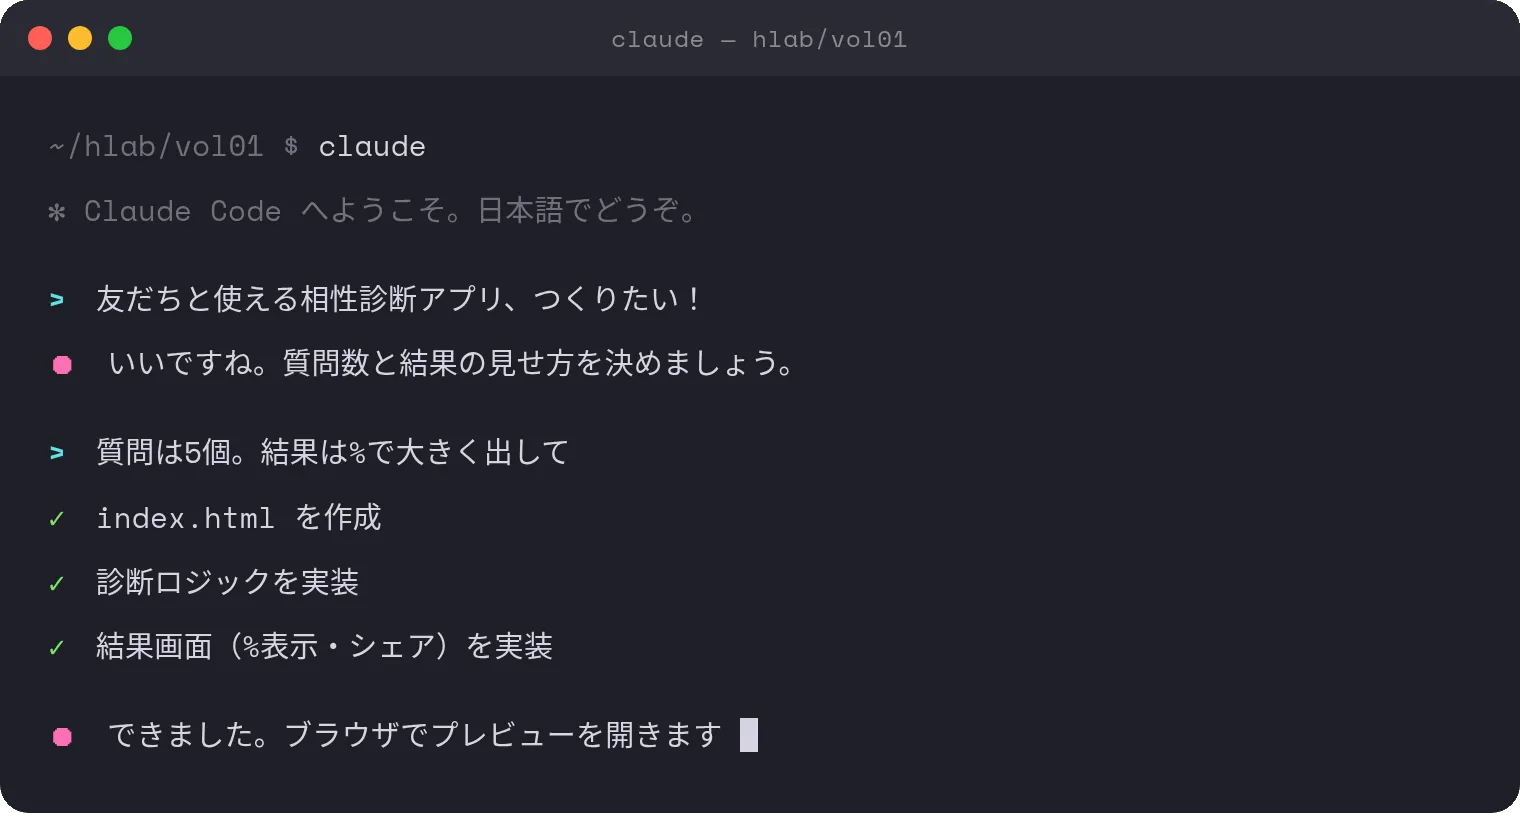
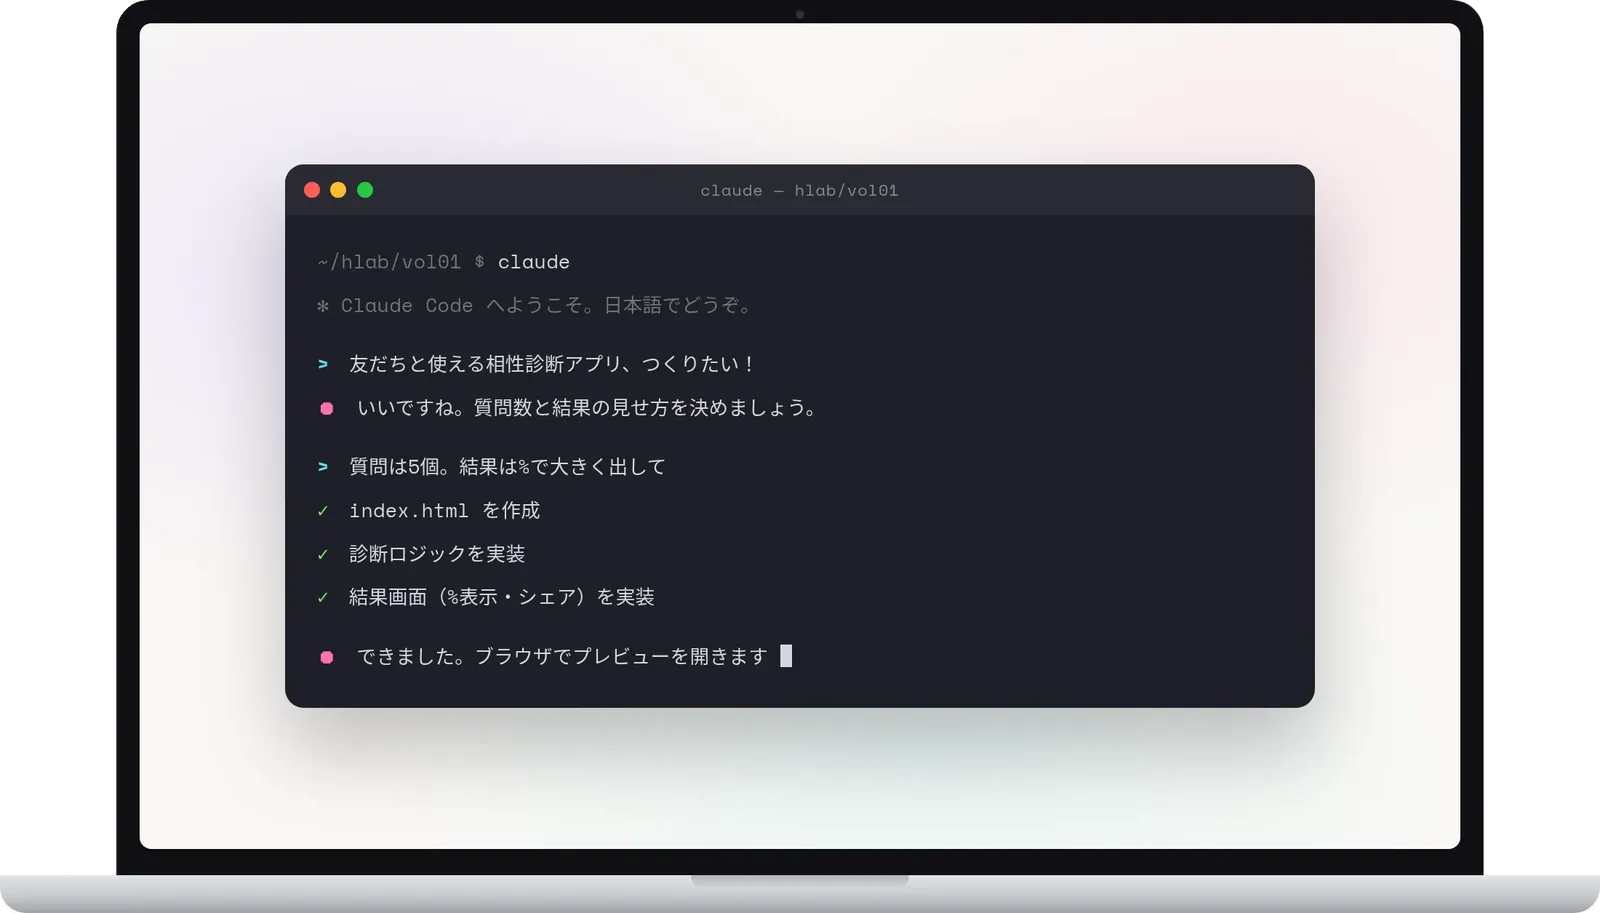
Claude CodeモックをMacBook風筐体に載せる（koki要望）
- ダークベゼル＋カメラ＋プリズム壁紙のデスクトップ＋シルバー土台のハードウェア込みの一枚に
- SPは従来どおりターミナル寄りクロップで可読性維持

diff --git a/about.html b/about.html
@@ -63,7 +63,7 @@
     </div>
     <picture class="reveal-up">
       <source media="(max-width:760px)" srcset="assets/mock-claude-code-sp.webp">
-      <img class="mock-window" src="assets/mock-claude-code.webp" alt="Claude Codeに日本語で話しかけてアプリを作るターミナル画面" loading="lazy" decoding="async" width="1520" height="813">
+      <img class="mock-window" src="assets/mock-claude-code.webp" alt="ノートPCのClaude Codeに日本語で話しかけてアプリを作る画面" loading="lazy" decoding="async" width="1600" height="913">
     </picture>
   </div>
 </section>
